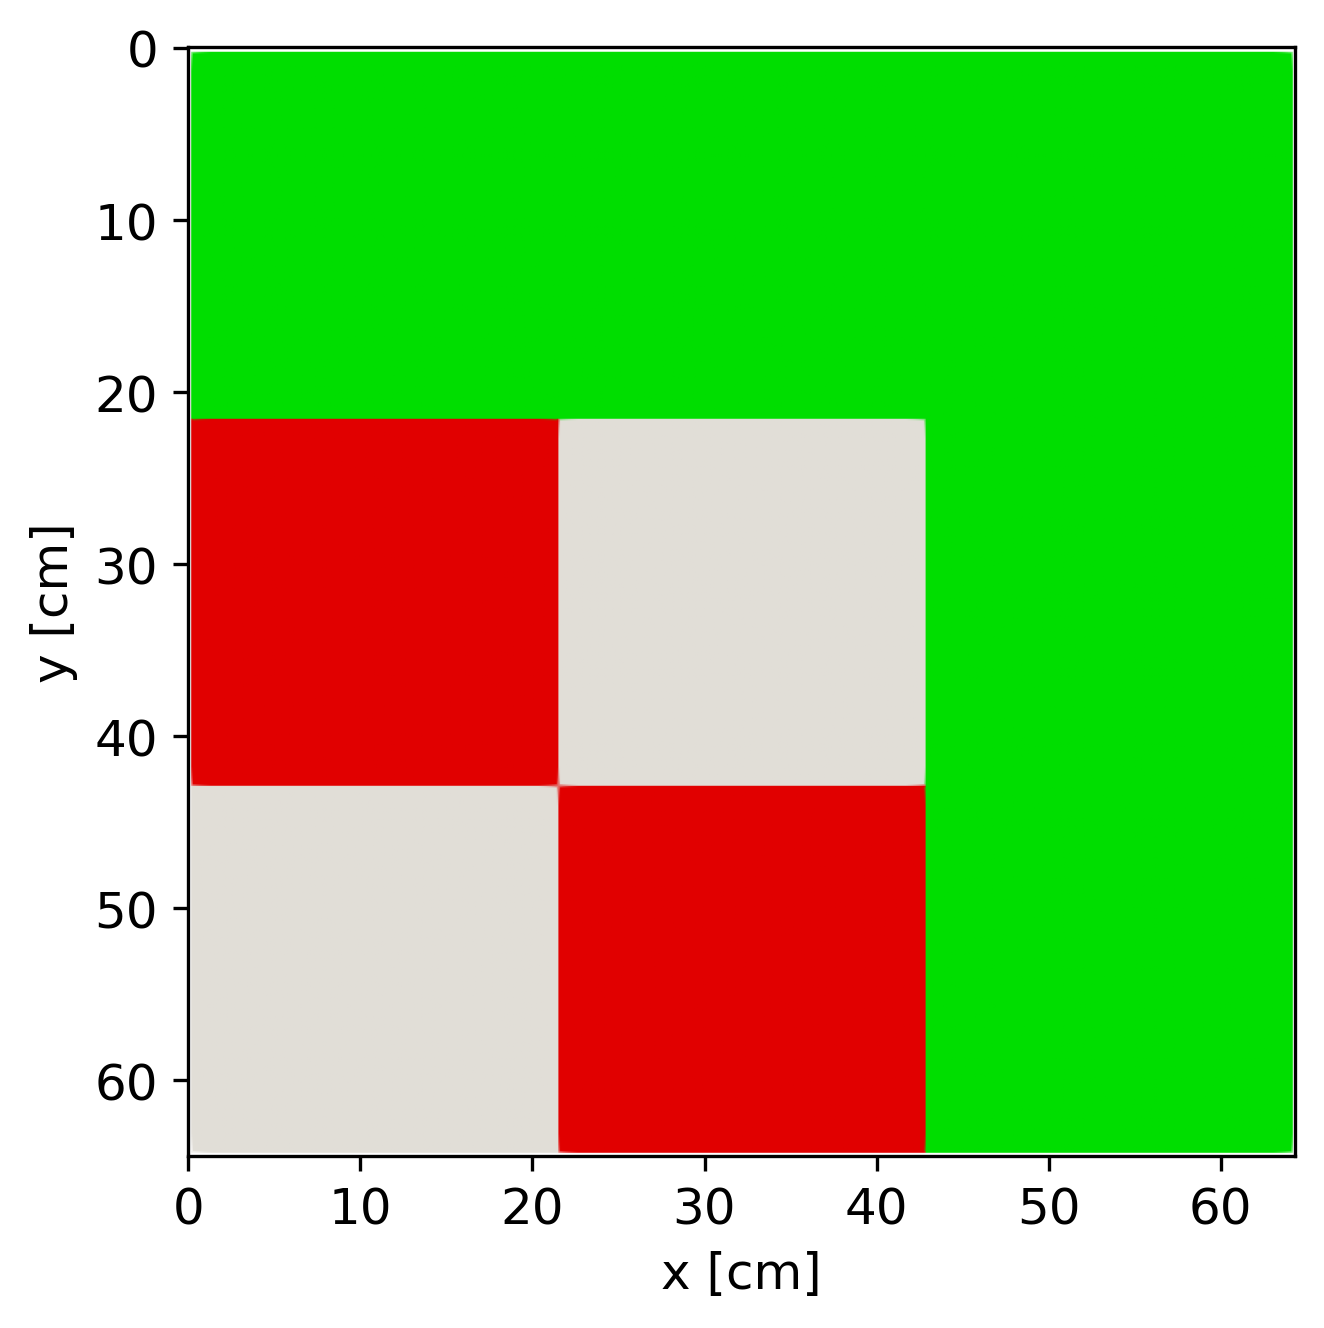
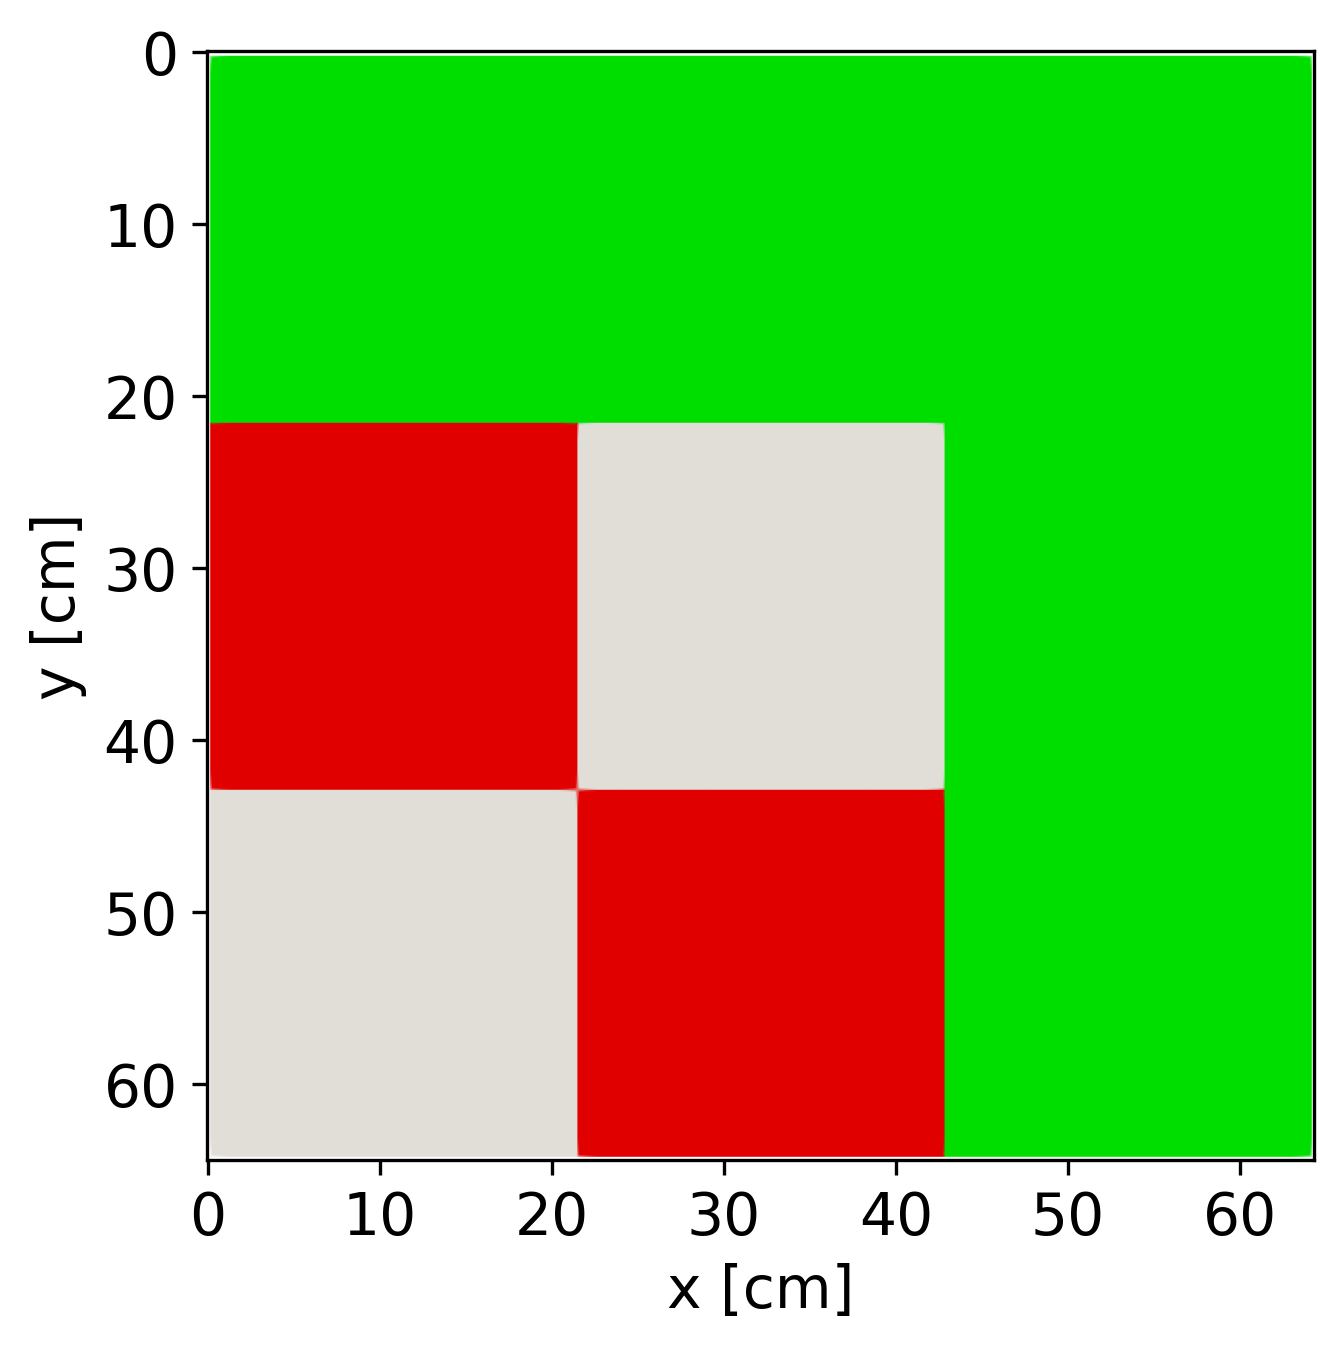
updated many figures, almost fits in 4 pages

Changed region(s): [[0.0, 0.0, 0.9909, 0.988]]

diff --git a/summary-ans-annual-2021/summary.tex b/summary-ans-annual-2021/summary.tex
@@ -189,7 +189,7 @@ Table \ref{tab:keff-1st} compares the eigenvalue obtained with Cerberus and the 
 
 \begin{figure}[htbp!] %or H 
     \centering
-    \includegraphics[width=0.7\linewidth]{figures/mesh2.png}
+    \includegraphics[width=0.55\linewidth]{figures/mesh2.png}
     \hfill
     \caption{Geometry of the one group eigenvalue problem. Fuel in red. Moderator in gray.}
     \label{fig:2D}
@@ -242,26 +242,27 @@ The open literature describes different versions and extensions of the C5 MOX be
 The \gls{OECD}/\gls{NEA} developed this benchmark to validate methods and identify their strengths, limitations, and accuracy, and suggest needs for method development.
 This section describes the benchmark exercise and presents Cerberus results.
 
-% benchmark specification
-Two types of fuel assembly (MOX and UO$_2$) and a reflector comprise the core, shown in Figure \ref{fig:bench1}.
-Due to the problem's symmetry, the model included only a quarter of the core.
-Each fuel assembly consists of a 17 $\times$ 17 array of squared pin cells, as displayed in Figures \ref{fig:bench2} and \ref{fig:bench3}.
-The dimensions of each pin cell are 1.26 $\times$ 1.26 cm, being 21.42 $\times$ 21.42 cm the dimensions of each assembly.
-The benchmark \cite{cavarec_benchmark_1994} specifies the cross-sections, which have a two-energy group structure.
-
-\begin{figure}[htbp!] %or H 
+\begin{figure}[htbp!] %or htbp!
     \centering
-    \includegraphics[width=0.7\linewidth]{figures/geo-xy2.png}
+    \includegraphics[width=0.55\linewidth]{figures/geo-xy2.png}
     \hfill
-    \caption{C5 MOX Benchmark configuration. UO$_2$ in gray. MOX in red. Reflector in green.}
+    \caption{C5 MOX Benchmark configuration. UO$_2$ assembly in gray. MOX assembly in red. Reflector in green.}
     \label{fig:bench1}
 \end{figure}
 
+% benchmark specification
+Two types of fuel assembly (MOX and UO$_2$) and a reflector comprise the core, shown in Figure \ref{fig:bench1}.
+Due to the problem's symmetry, the model included only a quarter of the core.
+Each fuel assembly consists of a 17 $\times$ 17 array of squared pin cells, as displayed in Figures \ref{fig:bench2}.
+The dimensions of each pin cell are 1.26 $\times$ 1.26 cm, being 21.42 $\times$ 21.42 cm the dimensions of each assembly.
+The benchmark \cite{cavarec_benchmark_1994} specifies the cross-sections, which have a two-energy group structure.
+
+
 \begin{figure}[htbp!] %or H 
     \centering
-    \includegraphics[trim=0 0 0 2.1cm, clip=true, width=0.85\linewidth]{figures/bench-config2.png}
+    \includegraphics[width=0.45\linewidth]{figures/bench-config2.png}
     \hfill
-    \caption{Structure of the UO$_2$ assembly. Image reproduced from \cite{capilla_applications_2009}.}
+    \caption{Structure of the UO$_2$ and MOX assemblies. UO$_2$ in yellow, 8.7\% MOX in red, 7\% MOX in gray, 4.3\% in orange, guide tubes in black, and fission chamber in blue.}
     \label{fig:bench2}
 \end{figure}
 
@@ -275,14 +276,14 @@ When no anisotropic component of the scattering cross-section is available, the 
 \end{align}
 
 % \begin{figure}[htbp!] %or H 
-\begin{figure}[h] %or H 
-    \centering
-    % \includegraphics[width=0.95\linewidth]{figures/bench-config3.png}
-    \includegraphics[trim=0 0 0 2.1cm, clip=true, width=0.85\linewidth]{figures/bench-config3.png}
-    \hfill
-    \caption{Structure of the MOX assembly. Image reproduced from \cite{capilla_applications_2009}.}
-    \label{fig:bench3}
-\end{figure}
+% \begin{figure}[h] %or H 
+%     \centering
+%     % \includegraphics[width=0.95\linewidth]{figures/bench-config3.png}
+%     \includegraphics[trim=0 0 0 2.1cm, clip=true, width=0.85\linewidth]{figures/bench-config3.png}
+%     \hfill
+%     \caption{Structure of the MOX assembly. Image reproduced from \cite{capilla_applications_2009}.}
+%     \label{fig:bench3}
+% \end{figure}
 
 For the sake of comparison, we conducted the exercise with and without the transport correction for calculating $D_{0,g}$ with equations \ref{eq:diff-tr} and \ref{eq:diff-rem}, respectively.
 The mesh had $2.4 \times 10^{4}$ elements.
@@ -320,7 +321,7 @@ For conciseness, we only calculated the power distribution using the transport c
 
 \begin{figure}[h] %or H 
     \centering
-    \includegraphics[width=0.85\linewidth]{figures/mox-r-pin-by-pin.png}
+    \includegraphics[width=0.75\linewidth]{figures/mox-r-pin-by-pin.png}
     \hfill
     \caption{Power distribution in the MOX assembly of the C5 MOX Benchmark.}
     \label{fig:power-pbp}
@@ -366,9 +367,9 @@ Figure \ref{fig:c5g2-3d} displays the axial layout of the core and its dimension
 
 \begin{figure}[h] %or H 
     \centering
-    \includegraphics[width=0.65\linewidth]{figures/geo-xz2.png}
+    \includegraphics[width=0.4\linewidth]{figures/geo-xz2.png}
     \hfill
-    \caption{Axial layout of the C5G2 3D Benchmark.}
+    \caption{Axial layout of the C5G2 3D Benchmark. UO$_2$ assembly in gray. MOX assembly in red. Reflector in green.}
     \label{fig:c5g2-3d}
 \end{figure}
 
@@ -401,7 +402,7 @@ The results of the power distribution are within 1\% difference.
 
 \begin{figure}[h] %or H 
     \centering
-    \includegraphics[width=0.85\linewidth]{figures/C5G23D-distrib.png}
+    \includegraphics[width=0.65\linewidth]{figures/C5G23D-distrib.png}
     \hfill
     \caption{Power distribution in the C5G2 3D Benchmark. Top: power distribution. Bottom: relative difference to reference values expressed in \%.}
     \label{fig:c5g2-3d-power}
